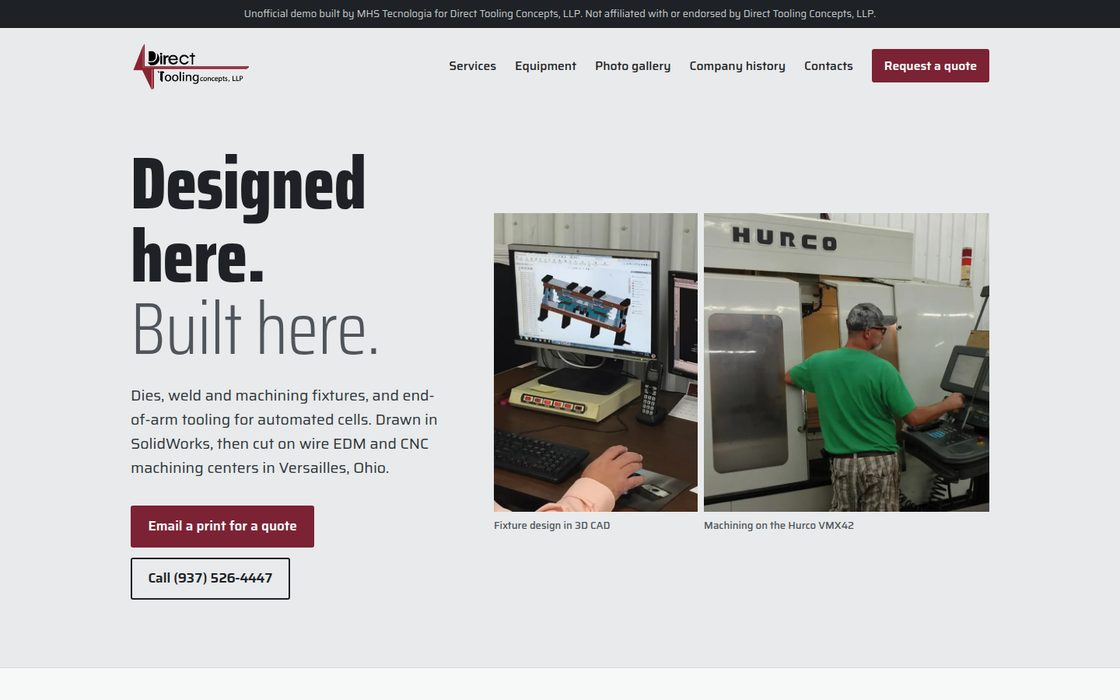
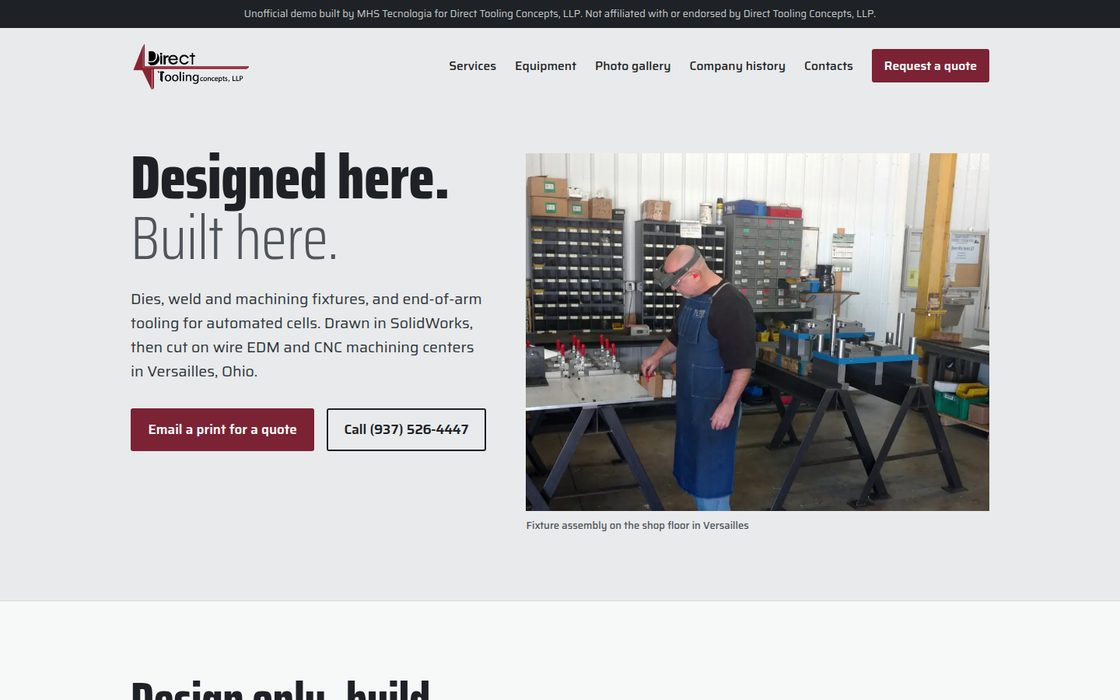
Previews: 11 ativos

Changed region(s): [[0.0938, 0.21, 0.9062, 0.78], [0.0938, 0.72, 0.2812, 0.87], [0.0938, 0.96, 0.4062, 1.0]]

diff --git a/direct-tooling-concepts-versailles-oh/index.html b/direct-tooling-concepts-versailles-oh/index.html
@@ -10,7 +10,7 @@
 <link rel="icon" href="data:,">
 <script>document.documentElement.classList.add('js')</script>
 <link rel="preload" as="font" type="font/woff2" href="fonts/saira.woff2" crossorigin>
-<link rel="preload" as="image" href="img/mill-vmx42.webp" fetchpriority="high">
+<link rel="preload" as="image" href="img/floor.webp" fetchpriority="high">
 <style>
 @font-face { font-family: "Saira"; font-weight: 100 900; font-stretch: 50% 125%; font-display: swap; src: url(fonts/saira.woff2) format("woff2"); }
 :root {
@@ -60,15 +60,14 @@ h3 { font-size: 1.45rem; line-height: 1.05; }
 .btn.ghost { background: transparent; color: var(--ink); box-shadow: inset 0 0 0 2px var(--ink); }
 .btn.ghost:hover { background: var(--ink); color: var(--white); }
 .navs .btn { padding: .55rem 1rem; }
-.hero .wrap { display: grid; grid-template-columns: minmax(0, 9fr) minmax(0, 14fr); gap: clamp(2rem, 4vw, 4.5rem); align-items: center; padding-top: clamp(1.5rem, 4vw, 3.5rem); padding-bottom: clamp(3rem, 6vw, 5.5rem); }
-.hero h1 { font-size: clamp(3.2rem, 6.6vw, 6rem); font-weight: 850; }
+.hero .wrap { display: grid; grid-template-columns: minmax(0, 10fr) minmax(0, 13fr); gap: clamp(2rem, 3.5vw, 3.5rem); align-items: start; padding-top: clamp(1.5rem, 4vw, 3.5rem); padding-bottom: clamp(3rem, 6vw, 5.5rem); }
+.hero h1 { font-size: clamp(3.2rem, 5.5vw, 5rem); font-weight: 850; }
+.hero h1 .l1 { display: block; white-space: nowrap; font-weight: inherit; color: inherit; }
 .hero h1 span { display: block; font-weight: 300; color: var(--graphite); }
 .hero .lede { margin-top: 1.5rem; max-width: 31rem; font-size: clamp(1.08rem, 1.5vw, 1.22rem); color: #2f353a; }
 .actions { margin-top: 2rem; display: flex; flex-wrap: wrap; gap: .8rem 1rem; align-items: center; }
-.pair { display: grid; grid-template-columns: minmax(0, 5fr) minmax(0, 7fr); gap: 8px; }
-.pair img { width: 100%; height: clamp(20rem, 27vw, 24rem); object-fit: cover; }
-.pair .a img { object-position: 58% 50%; }
-.pair .b img { object-position: 52% 50%; }
+.shot { margin-top: .45rem; }
+.shot img { width: 100%; height: clamp(22rem, 32vw, 29rem); object-fit: cover; object-position: 50% 45%; }
 figcaption { font-size: .82rem; font-weight: 500; color: var(--graphite); padding-top: .45rem; }
 .head .wrap { display: grid; grid-template-columns: minmax(0, 6fr) minmax(0, 7fr); gap: clamp(2rem, 4vw, 4.5rem); align-items: end; padding-top: clamp(1.5rem, 4vw, 3.5rem); padding-bottom: clamp(2.5rem, 5vw, 4.5rem); }
 .head h1 { font-size: clamp(2.9rem, 6vw, 5.2rem); font-weight: 850; }
@@ -267,16 +266,16 @@ footer .legal a { color: #d5d9dc; }
   .dock { display: block; }
   .sheet { position: sticky; top: 0; z-index: 2; margin: 0 calc(-1 * var(--pad)); border-width: 0 0 1px; }
   .sheet text.tag, .sheet .lead { display: none; }
-  .sheet[data-on] g.m.on text.tag { display: inline; font-size: 2.6px; }
+  .sheet[data-on] g.m.on text.tag { display: inline; font-size: 3px; }
+  .sheet[data-on] g.m.on:not(.edm) text.tag { dominant-baseline: hanging; }
+  .sheet .axis:not(.y) { transform: translateY(.6px); }
   .sheet[data-on] g.m.on .lead { display: inline; }
-  .sheet[data-on] g.edm.on text.tag { font-size: 2.4px; }
-  .sheet .axis { font-size: 2.3px; }
+  .sheet[data-on] g.edm.on text.tag { font-size: 2.8px; }
+  .sheet .axis { font-size: 2.7px; }
   .sheet .key { font-size: .8rem; gap: .3rem 1rem; }
   .hero .wrap { padding-top: .9rem; }
-  .pair { grid-template-columns: minmax(0, 1fr); }
-  .pair .a { display: none; }
-  .pair img { height: auto; aspect-ratio: 16 / 10; }
-  .pair .b img { object-position: 40% 50%; }
+  .shot { margin-top: 0; }
+  .shot img { height: auto; aspect-ratio: 16 / 10; object-position: 45% 50%; }
   .cols .col:first-child img { display: none; }
   .hero h1 { font-size: 3.3rem; }
   .hero .lede { margin-top: 1rem; font-size: 1.05rem; }
@@ -323,23 +322,17 @@ footer .legal a { color: #d5d9dc; }
 <section class="hero" aria-labelledby="hero-title">
       <div class="wrap">
         <div>
-          <h1 id="hero-title">Designed here. <span>Built here.</span></h1>
+          <h1 id="hero-title"><span class="l1">Designed here.</span> <span>Built here.</span></h1>
           <p class="lede">Dies, weld and machining fixtures, and end-of-arm tooling for automated cells. Drawn in SolidWorks, then cut on wire EDM and CNC machining centers in Versailles, Ohio.</p>
           <div class="actions">
             <a class="btn" href="mailto:eric@directtoolingconcepts.com?subject=Quote%20request">Email a print for a quote</a>
             <a class="btn ghost num" href="tel:+19375264447">Call (937) 526-4447</a>
           </div>
         </div>
-        <div class="pair">
-          <figure class="a">
-            <img src="img/design.webp" width="1400" height="788" alt="A designer at two monitors, a fixture model open in 3D CAD and a 2D drawing beside it">
-            <figcaption>Fixture design in 3D CAD</figcaption>
-          </figure>
-          <figure class="b">
-            <img src="img/mill-vmx42.webp" width="1400" height="788" alt="A machinist in a green shirt running the Hurco VMX42 from its control pendant" fetchpriority="high">
-            <figcaption>Machining on the Hurco VMX42</figcaption>
-          </figure>
-        </div>
+        <figure class="shot">
+          <img src="img/floor.webp" width="1400" height="788" alt="A toolmaker in a denim apron assembling a fixture with toggle clamps on the shop floor" fetchpriority="high">
+          <figcaption>Fixture assembly on the shop floor in Versailles</figcaption>
+        </figure>
       </div>
     </section>
 
@@ -431,7 +424,7 @@ footer .legal a { color: #d5d9dc; }
     </section>
 
     <div class="band" role="group" aria-label="Photos from the shop">
-      <figure><img src="img/floor.webp" width="1400" height="788" alt="A toolmaker in a denim apron assembling a fixture with toggle clamps on the shop floor" loading="lazy"></figure>
+      <figure><img src="img/mill-vmx42.webp" width="1400" height="788" alt="A machinist in a green shirt running the Hurco VMX42 from its control pendant" loading="lazy"></figure>
       <figure><img src="img/edm-mitsubishi.webp" width="1000" height="486" alt="The Mitsubishi wire EDM with the Accutex AL560 beside it" loading="lazy"></figure>
       <figure><img src="img/part-set.webp" width="860" height="500" alt="Five machined steel details laid out on a bench" loading="lazy"></figure>
       <figure><img src="img/edm-cut-wide.webp" width="1400" height="508" alt="Coolant flooding a cutter as a machining center works a large plate" loading="lazy"></figure>
@@ -538,15 +531,22 @@ footer .legal a { color: #d5d9dc; }
     }))
 
     // The tables grow out of the zero corner once, smallest first, when the drawing comes into view.
-    if (!matchMedia('(prefers-reduced-motion: reduce)').matches && sheet.getBoundingClientRect().top > innerHeight) {
+    const still = matchMedia('(prefers-reduced-motion: reduce)').matches
+    if (!still) {
       sheet.classList.add('grow')
       const io = new IntersectionObserver(([e]) => {
         if (!e.isIntersecting) return
         io.disconnect()
-        requestAnimationFrame(() => { sheet.classList.add('grown'); sheet.classList.remove('grow') })
-      }, { threshold: .35 })
+        requestAnimationFrame(() => requestAnimationFrame(() => { sheet.classList.add('grown'); sheet.classList.remove('grow') }))
+      }, { threshold: .15 })
       io.observe(sheet)
     }
+    // A picked machine redraws its own travel out of the zero corner.
+    buttons.forEach((b) => b.addEventListener('click', () => {
+      if (still || b.getAttribute('aria-pressed') !== 'true') return
+      const g = sheet.querySelector(`g.m[data-m="${b.dataset.m}"]`)
+      g.animate([{ transform: 'scale(.15)' }, { transform: 'scale(1)' }], { duration: 450, easing: 'cubic-bezier(.2, .7, .2, 1)' })
+    }))
 
     // Phones: chart labels show one machine at a time, so start on the largest.
     if (matchMedia('(max-width: 760px)').matches) document.querySelector('.picker button[data-m="64"]').click()

diff --git a/direct-tooling-concepts-versailles-oh/contact.html b/direct-tooling-concepts-versailles-oh/contact.html
@@ -59,15 +59,14 @@ h3 { font-size: 1.45rem; line-height: 1.05; }
 .btn.ghost { background: transparent; color: var(--ink); box-shadow: inset 0 0 0 2px var(--ink); }
 .btn.ghost:hover { background: var(--ink); color: var(--white); }
 .navs .btn { padding: .55rem 1rem; }
-.hero .wrap { display: grid; grid-template-columns: minmax(0, 9fr) minmax(0, 14fr); gap: clamp(2rem, 4vw, 4.5rem); align-items: center; padding-top: clamp(1.5rem, 4vw, 3.5rem); padding-bottom: clamp(3rem, 6vw, 5.5rem); }
-.hero h1 { font-size: clamp(3.2rem, 6.6vw, 6rem); font-weight: 850; }
+.hero .wrap { display: grid; grid-template-columns: minmax(0, 10fr) minmax(0, 13fr); gap: clamp(2rem, 3.5vw, 3.5rem); align-items: start; padding-top: clamp(1.5rem, 4vw, 3.5rem); padding-bottom: clamp(3rem, 6vw, 5.5rem); }
+.hero h1 { font-size: clamp(3.2rem, 5.5vw, 5rem); font-weight: 850; }
+.hero h1 .l1 { display: block; white-space: nowrap; font-weight: inherit; color: inherit; }
 .hero h1 span { display: block; font-weight: 300; color: var(--graphite); }
 .hero .lede { margin-top: 1.5rem; max-width: 31rem; font-size: clamp(1.08rem, 1.5vw, 1.22rem); color: #2f353a; }
 .actions { margin-top: 2rem; display: flex; flex-wrap: wrap; gap: .8rem 1rem; align-items: center; }
-.pair { display: grid; grid-template-columns: minmax(0, 5fr) minmax(0, 7fr); gap: 8px; }
-.pair img { width: 100%; height: clamp(20rem, 27vw, 24rem); object-fit: cover; }
-.pair .a img { object-position: 58% 50%; }
-.pair .b img { object-position: 52% 50%; }
+.shot { margin-top: .45rem; }
+.shot img { width: 100%; height: clamp(22rem, 32vw, 29rem); object-fit: cover; object-position: 50% 45%; }
 figcaption { font-size: .82rem; font-weight: 500; color: var(--graphite); padding-top: .45rem; }
 .head .wrap { display: grid; grid-template-columns: minmax(0, 6fr) minmax(0, 7fr); gap: clamp(2rem, 4vw, 4.5rem); align-items: end; padding-top: clamp(1.5rem, 4vw, 3.5rem); padding-bottom: clamp(2.5rem, 5vw, 4.5rem); }
 .head h1 { font-size: clamp(2.9rem, 6vw, 5.2rem); font-weight: 850; }
@@ -266,16 +265,16 @@ footer .legal a { color: #d5d9dc; }
   .dock { display: block; }
   .sheet { position: sticky; top: 0; z-index: 2; margin: 0 calc(-1 * var(--pad)); border-width: 0 0 1px; }
   .sheet text.tag, .sheet .lead { display: none; }
-  .sheet[data-on] g.m.on text.tag { display: inline; font-size: 2.6px; }
+  .sheet[data-on] g.m.on text.tag { display: inline; font-size: 3px; }
+  .sheet[data-on] g.m.on:not(.edm) text.tag { dominant-baseline: hanging; }
+  .sheet .axis:not(.y) { transform: translateY(.6px); }
   .sheet[data-on] g.m.on .lead { display: inline; }
-  .sheet[data-on] g.edm.on text.tag { font-size: 2.4px; }
-  .sheet .axis { font-size: 2.3px; }
+  .sheet[data-on] g.edm.on text.tag { font-size: 2.8px; }
+  .sheet .axis { font-size: 2.7px; }
   .sheet .key { font-size: .8rem; gap: .3rem 1rem; }
   .hero .wrap { padding-top: .9rem; }
-  .pair { grid-template-columns: minmax(0, 1fr); }
-  .pair .a { display: none; }
-  .pair img { height: auto; aspect-ratio: 16 / 10; }
-  .pair .b img { object-position: 40% 50%; }
+  .shot { margin-top: 0; }
+  .shot img { height: auto; aspect-ratio: 16 / 10; object-position: 45% 50%; }
   .cols .col:first-child img { display: none; }
   .hero h1 { font-size: 3.3rem; }
   .hero .lede { margin-top: 1rem; font-size: 1.05rem; }

diff --git a/direct-tooling-concepts-versailles-oh/equipment.html b/direct-tooling-concepts-versailles-oh/equipment.html
@@ -60,15 +60,14 @@ h3 { font-size: 1.45rem; line-height: 1.05; }
 .btn.ghost { background: transparent; color: var(--ink); box-shadow: inset 0 0 0 2px var(--ink); }
 .btn.ghost:hover { background: var(--ink); color: var(--white); }
 .navs .btn { padding: .55rem 1rem; }
-.hero .wrap { display: grid; grid-template-columns: minmax(0, 9fr) minmax(0, 14fr); gap: clamp(2rem, 4vw, 4.5rem); align-items: center; padding-top: clamp(1.5rem, 4vw, 3.5rem); padding-bottom: clamp(3rem, 6vw, 5.5rem); }
-.hero h1 { font-size: clamp(3.2rem, 6.6vw, 6rem); font-weight: 850; }
+.hero .wrap { display: grid; grid-template-columns: minmax(0, 10fr) minmax(0, 13fr); gap: clamp(2rem, 3.5vw, 3.5rem); align-items: start; padding-top: clamp(1.5rem, 4vw, 3.5rem); padding-bottom: clamp(3rem, 6vw, 5.5rem); }
+.hero h1 { font-size: clamp(3.2rem, 5.5vw, 5rem); font-weight: 850; }
+.hero h1 .l1 { display: block; white-space: nowrap; font-weight: inherit; color: inherit; }
 .hero h1 span { display: block; font-weight: 300; color: var(--graphite); }
 .hero .lede { margin-top: 1.5rem; max-width: 31rem; font-size: clamp(1.08rem, 1.5vw, 1.22rem); color: #2f353a; }
 .actions { margin-top: 2rem; display: flex; flex-wrap: wrap; gap: .8rem 1rem; align-items: center; }
-.pair { display: grid; grid-template-columns: minmax(0, 5fr) minmax(0, 7fr); gap: 8px; }
-.pair img { width: 100%; height: clamp(20rem, 27vw, 24rem); object-fit: cover; }
-.pair .a img { object-position: 58% 50%; }
-.pair .b img { object-position: 52% 50%; }
+.shot { margin-top: .45rem; }
+.shot img { width: 100%; height: clamp(22rem, 32vw, 29rem); object-fit: cover; object-position: 50% 45%; }
 figcaption { font-size: .82rem; font-weight: 500; color: var(--graphite); padding-top: .45rem; }
 .head .wrap { display: grid; grid-template-columns: minmax(0, 6fr) minmax(0, 7fr); gap: clamp(2rem, 4vw, 4.5rem); align-items: end; padding-top: clamp(1.5rem, 4vw, 3.5rem); padding-bottom: clamp(2.5rem, 5vw, 4.5rem); }
 .head h1 { font-size: clamp(2.9rem, 6vw, 5.2rem); font-weight: 850; }
@@ -267,16 +266,16 @@ footer .legal a { color: #d5d9dc; }
   .dock { display: block; }
   .sheet { position: sticky; top: 0; z-index: 2; margin: 0 calc(-1 * var(--pad)); border-width: 0 0 1px; }
   .sheet text.tag, .sheet .lead { display: none; }
-  .sheet[data-on] g.m.on text.tag { display: inline; font-size: 2.6px; }
+  .sheet[data-on] g.m.on text.tag { display: inline; font-size: 3px; }
+  .sheet[data-on] g.m.on:not(.edm) text.tag { dominant-baseline: hanging; }
+  .sheet .axis:not(.y) { transform: translateY(.6px); }
   .sheet[data-on] g.m.on .lead { display: inline; }
-  .sheet[data-on] g.edm.on text.tag { font-size: 2.4px; }
-  .sheet .axis { font-size: 2.3px; }
+  .sheet[data-on] g.edm.on text.tag { font-size: 2.8px; }
+  .sheet .axis { font-size: 2.7px; }
   .sheet .key { font-size: .8rem; gap: .3rem 1rem; }
   .hero .wrap { padding-top: .9rem; }
-  .pair { grid-template-columns: minmax(0, 1fr); }
-  .pair .a { display: none; }
-  .pair img { height: auto; aspect-ratio: 16 / 10; }
-  .pair .b img { object-position: 40% 50%; }
+  .shot { margin-top: 0; }
+  .shot img { height: auto; aspect-ratio: 16 / 10; object-position: 45% 50%; }
   .cols .col:first-child img { display: none; }
   .hero h1 { font-size: 3.3rem; }
   .hero .lede { margin-top: 1rem; font-size: 1.05rem; }

diff --git a/direct-tooling-concepts-versailles-oh/gallery.html b/direct-tooling-concepts-versailles-oh/gallery.html
@@ -59,15 +59,14 @@ h3 { font-size: 1.45rem; line-height: 1.05; }
 .btn.ghost { background: transparent; color: var(--ink); box-shadow: inset 0 0 0 2px var(--ink); }
 .btn.ghost:hover { background: var(--ink); color: var(--white); }
 .navs .btn { padding: .55rem 1rem; }
-.hero .wrap { display: grid; grid-template-columns: minmax(0, 9fr) minmax(0, 14fr); gap: clamp(2rem, 4vw, 4.5rem); align-items: center; padding-top: clamp(1.5rem, 4vw, 3.5rem); padding-bottom: clamp(3rem, 6vw, 5.5rem); }
-.hero h1 { font-size: clamp(3.2rem, 6.6vw, 6rem); font-weight: 850; }
+.hero .wrap { display: grid; grid-template-columns: minmax(0, 10fr) minmax(0, 13fr); gap: clamp(2rem, 3.5vw, 3.5rem); align-items: start; padding-top: clamp(1.5rem, 4vw, 3.5rem); padding-bottom: clamp(3rem, 6vw, 5.5rem); }
+.hero h1 { font-size: clamp(3.2rem, 5.5vw, 5rem); font-weight: 850; }
+.hero h1 .l1 { display: block; white-space: nowrap; font-weight: inherit; color: inherit; }
 .hero h1 span { display: block; font-weight: 300; color: var(--graphite); }
 .hero .lede { margin-top: 1.5rem; max-width: 31rem; font-size: clamp(1.08rem, 1.5vw, 1.22rem); color: #2f353a; }
 .actions { margin-top: 2rem; display: flex; flex-wrap: wrap; gap: .8rem 1rem; align-items: center; }
-.pair { display: grid; grid-template-columns: minmax(0, 5fr) minmax(0, 7fr); gap: 8px; }
-.pair img { width: 100%; height: clamp(20rem, 27vw, 24rem); object-fit: cover; }
-.pair .a img { object-position: 58% 50%; }
-.pair .b img { object-position: 52% 50%; }
+.shot { margin-top: .45rem; }
+.shot img { width: 100%; height: clamp(22rem, 32vw, 29rem); object-fit: cover; object-position: 50% 45%; }
 figcaption { font-size: .82rem; font-weight: 500; color: var(--graphite); padding-top: .45rem; }
 .head .wrap { display: grid; grid-template-columns: minmax(0, 6fr) minmax(0, 7fr); gap: clamp(2rem, 4vw, 4.5rem); align-items: end; padding-top: clamp(1.5rem, 4vw, 3.5rem); padding-bottom: clamp(2.5rem, 5vw, 4.5rem); }
 .head h1 { font-size: clamp(2.9rem, 6vw, 5.2rem); font-weight: 850; }
@@ -266,16 +265,16 @@ footer .legal a { color: #d5d9dc; }
   .dock { display: block; }
   .sheet { position: sticky; top: 0; z-index: 2; margin: 0 calc(-1 * var(--pad)); border-width: 0 0 1px; }
   .sheet text.tag, .sheet .lead { display: none; }
-  .sheet[data-on] g.m.on text.tag { display: inline; font-size: 2.6px; }
+  .sheet[data-on] g.m.on text.tag { display: inline; font-size: 3px; }
+  .sheet[data-on] g.m.on:not(.edm) text.tag { dominant-baseline: hanging; }
+  .sheet .axis:not(.y) { transform: translateY(.6px); }
   .sheet[data-on] g.m.on .lead { display: inline; }
-  .sheet[data-on] g.edm.on text.tag { font-size: 2.4px; }
-  .sheet .axis { font-size: 2.3px; }
+  .sheet[data-on] g.edm.on text.tag { font-size: 2.8px; }
+  .sheet .axis { font-size: 2.7px; }
   .sheet .key { font-size: .8rem; gap: .3rem 1rem; }
   .hero .wrap { padding-top: .9rem; }
-  .pair { grid-template-columns: minmax(0, 1fr); }
-  .pair .a { display: none; }
-  .pair img { height: auto; aspect-ratio: 16 / 10; }
-  .pair .b img { object-position: 40% 50%; }
+  .shot { margin-top: 0; }
+  .shot img { height: auto; aspect-ratio: 16 / 10; object-position: 45% 50%; }
   .cols .col:first-child img { display: none; }
   .hero h1 { font-size: 3.3rem; }
   .hero .lede { margin-top: 1rem; font-size: 1.05rem; }

diff --git a/direct-tooling-concepts-versailles-oh/history.html b/direct-tooling-concepts-versailles-oh/history.html
@@ -60,15 +60,14 @@ h3 { font-size: 1.45rem; line-height: 1.05; }
 .btn.ghost { background: transparent; color: var(--ink); box-shadow: inset 0 0 0 2px var(--ink); }
 .btn.ghost:hover { background: var(--ink); color: var(--white); }
 .navs .btn { padding: .55rem 1rem; }
-.hero .wrap { display: grid; grid-template-columns: minmax(0, 9fr) minmax(0, 14fr); gap: clamp(2rem, 4vw, 4.5rem); align-items: center; padding-top: clamp(1.5rem, 4vw, 3.5rem); padding-bottom: clamp(3rem, 6vw, 5.5rem); }
-.hero h1 { font-size: clamp(3.2rem, 6.6vw, 6rem); font-weight: 850; }
+.hero .wrap { display: grid; grid-template-columns: minmax(0, 10fr) minmax(0, 13fr); gap: clamp(2rem, 3.5vw, 3.5rem); align-items: start; padding-top: clamp(1.5rem, 4vw, 3.5rem); padding-bottom: clamp(3rem, 6vw, 5.5rem); }
+.hero h1 { font-size: clamp(3.2rem, 5.5vw, 5rem); font-weight: 850; }
+.hero h1 .l1 { display: block; white-space: nowrap; font-weight: inherit; color: inherit; }
 .hero h1 span { display: block; font-weight: 300; color: var(--graphite); }
 .hero .lede { margin-top: 1.5rem; max-width: 31rem; font-size: clamp(1.08rem, 1.5vw, 1.22rem); color: #2f353a; }
 .actions { margin-top: 2rem; display: flex; flex-wrap: wrap; gap: .8rem 1rem; align-items: center; }
-.pair { display: grid; grid-template-columns: minmax(0, 5fr) minmax(0, 7fr); gap: 8px; }
-.pair img { width: 100%; height: clamp(20rem, 27vw, 24rem); object-fit: cover; }
-.pair .a img { object-position: 58% 50%; }
-.pair .b img { object-position: 52% 50%; }
+.shot { margin-top: .45rem; }
+.shot img { width: 100%; height: clamp(22rem, 32vw, 29rem); object-fit: cover; object-position: 50% 45%; }
 figcaption { font-size: .82rem; font-weight: 500; color: var(--graphite); padding-top: .45rem; }
 .head .wrap { display: grid; grid-template-columns: minmax(0, 6fr) minmax(0, 7fr); gap: clamp(2rem, 4vw, 4.5rem); align-items: end; padding-top: clamp(1.5rem, 4vw, 3.5rem); padding-bottom: clamp(2.5rem, 5vw, 4.5rem); }
 .head h1 { font-size: clamp(2.9rem, 6vw, 5.2rem); font-weight: 850; }
@@ -267,16 +266,16 @@ footer .legal a { color: #d5d9dc; }
   .dock { display: block; }
   .sheet { position: sticky; top: 0; z-index: 2; margin: 0 calc(-1 * var(--pad)); border-width: 0 0 1px; }
   .sheet text.tag, .sheet .lead { display: none; }
-  .sheet[data-on] g.m.on text.tag { display: inline; font-size: 2.6px; }
+  .sheet[data-on] g.m.on text.tag { display: inline; font-size: 3px; }
+  .sheet[data-on] g.m.on:not(.edm) text.tag { dominant-baseline: hanging; }
+  .sheet .axis:not(.y) { transform: translateY(.6px); }
   .sheet[data-on] g.m.on .lead { display: inline; }
-  .sheet[data-on] g.edm.on text.tag { font-size: 2.4px; }
-  .sheet .axis { font-size: 2.3px; }
+  .sheet[data-on] g.edm.on text.tag { font-size: 2.8px; }
+  .sheet .axis { font-size: 2.7px; }
   .sheet .key { font-size: .8rem; gap: .3rem 1rem; }
   .hero .wrap { padding-top: .9rem; }
-  .pair { grid-template-columns: minmax(0, 1fr); }
-  .pair .a { display: none; }
-  .pair img { height: auto; aspect-ratio: 16 / 10; }
-  .pair .b img { object-position: 40% 50%; }
+  .shot { margin-top: 0; }
+  .shot img { height: auto; aspect-ratio: 16 / 10; object-position: 45% 50%; }
   .cols .col:first-child img { display: none; }
   .hero h1 { font-size: 3.3rem; }
   .hero .lede { margin-top: 1rem; font-size: 1.05rem; }

diff --git a/direct-tooling-concepts-versailles-oh/services.html b/direct-tooling-concepts-versailles-oh/services.html
@@ -60,15 +60,14 @@ h3 { font-size: 1.45rem; line-height: 1.05; }
 .btn.ghost { background: transparent; color: var(--ink); box-shadow: inset 0 0 0 2px var(--ink); }
 .btn.ghost:hover { background: var(--ink); color: var(--white); }
 .navs .btn { padding: .55rem 1rem; }
-.hero .wrap { display: grid; grid-template-columns: minmax(0, 9fr) minmax(0, 14fr); gap: clamp(2rem, 4vw, 4.5rem); align-items: center; padding-top: clamp(1.5rem, 4vw, 3.5rem); padding-bottom: clamp(3rem, 6vw, 5.5rem); }
-.hero h1 { font-size: clamp(3.2rem, 6.6vw, 6rem); font-weight: 850; }
+.hero .wrap { display: grid; grid-template-columns: minmax(0, 10fr) minmax(0, 13fr); gap: clamp(2rem, 3.5vw, 3.5rem); align-items: start; padding-top: clamp(1.5rem, 4vw, 3.5rem); padding-bottom: clamp(3rem, 6vw, 5.5rem); }
+.hero h1 { font-size: clamp(3.2rem, 5.5vw, 5rem); font-weight: 850; }
+.hero h1 .l1 { display: block; white-space: nowrap; font-weight: inherit; color: inherit; }
 .hero h1 span { display: block; font-weight: 300; color: var(--graphite); }
 .hero .lede { margin-top: 1.5rem; max-width: 31rem; font-size: clamp(1.08rem, 1.5vw, 1.22rem); color: #2f353a; }
 .actions { margin-top: 2rem; display: flex; flex-wrap: wrap; gap: .8rem 1rem; align-items: center; }
-.pair { display: grid; grid-template-columns: minmax(0, 5fr) minmax(0, 7fr); gap: 8px; }
-.pair img { width: 100%; height: clamp(20rem, 27vw, 24rem); object-fit: cover; }
-.pair .a img { object-position: 58% 50%; }
-.pair .b img { object-position: 52% 50%; }
+.shot { margin-top: .45rem; }
+.shot img { width: 100%; height: clamp(22rem, 32vw, 29rem); object-fit: cover; object-position: 50% 45%; }
 figcaption { font-size: .82rem; font-weight: 500; color: var(--graphite); padding-top: .45rem; }
 .head .wrap { display: grid; grid-template-columns: minmax(0, 6fr) minmax(0, 7fr); gap: clamp(2rem, 4vw, 4.5rem); align-items: end; padding-top: clamp(1.5rem, 4vw, 3.5rem); padding-bottom: clamp(2.5rem, 5vw, 4.5rem); }
 .head h1 { font-size: clamp(2.9rem, 6vw, 5.2rem); font-weight: 850; }
@@ -267,16 +266,16 @@ footer .legal a { color: #d5d9dc; }
   .dock { display: block; }
   .sheet { position: sticky; top: 0; z-index: 2; margin: 0 calc(-1 * var(--pad)); border-width: 0 0 1px; }
   .sheet text.tag, .sheet .lead { display: none; }
-  .sheet[data-on] g.m.on text.tag { display: inline; font-size: 2.6px; }
+  .sheet[data-on] g.m.on text.tag { display: inline; font-size: 3px; }
+  .sheet[data-on] g.m.on:not(.edm) text.tag { dominant-baseline: hanging; }
+  .sheet .axis:not(.y) { transform: translateY(.6px); }
   .sheet[data-on] g.m.on .lead { display: inline; }
-  .sheet[data-on] g.edm.on text.tag { font-size: 2.4px; }
-  .sheet .axis { font-size: 2.3px; }
+  .sheet[data-on] g.edm.on text.tag { font-size: 2.8px; }
+  .sheet .axis { font-size: 2.7px; }
   .sheet .key { font-size: .8rem; gap: .3rem 1rem; }
   .hero .wrap { padding-top: .9rem; }
-  .pair { grid-template-columns: minmax(0, 1fr); }
-  .pair .a { display: none; }
-  .pair img { height: auto; aspect-ratio: 16 / 10; }
-  .pair .b img { object-position: 40% 50%; }
+  .shot { margin-top: 0; }
+  .shot img { height: auto; aspect-ratio: 16 / 10; object-position: 45% 50%; }
   .cols .col:first-child img { display: none; }
   .hero h1 { font-size: 3.3rem; }
   .hero .lede { margin-top: 1rem; font-size: 1.05rem; }
